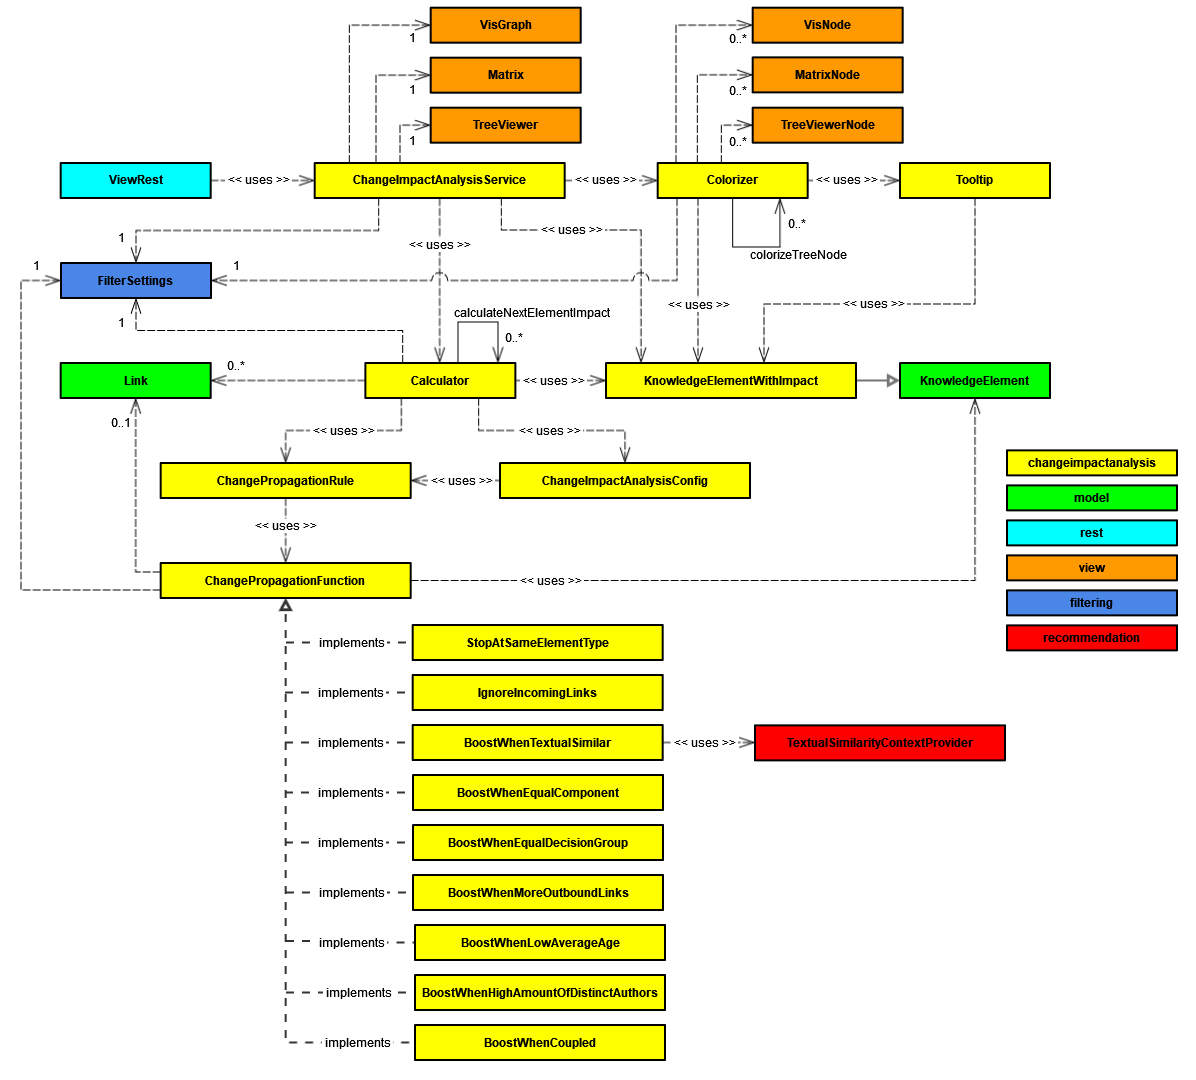
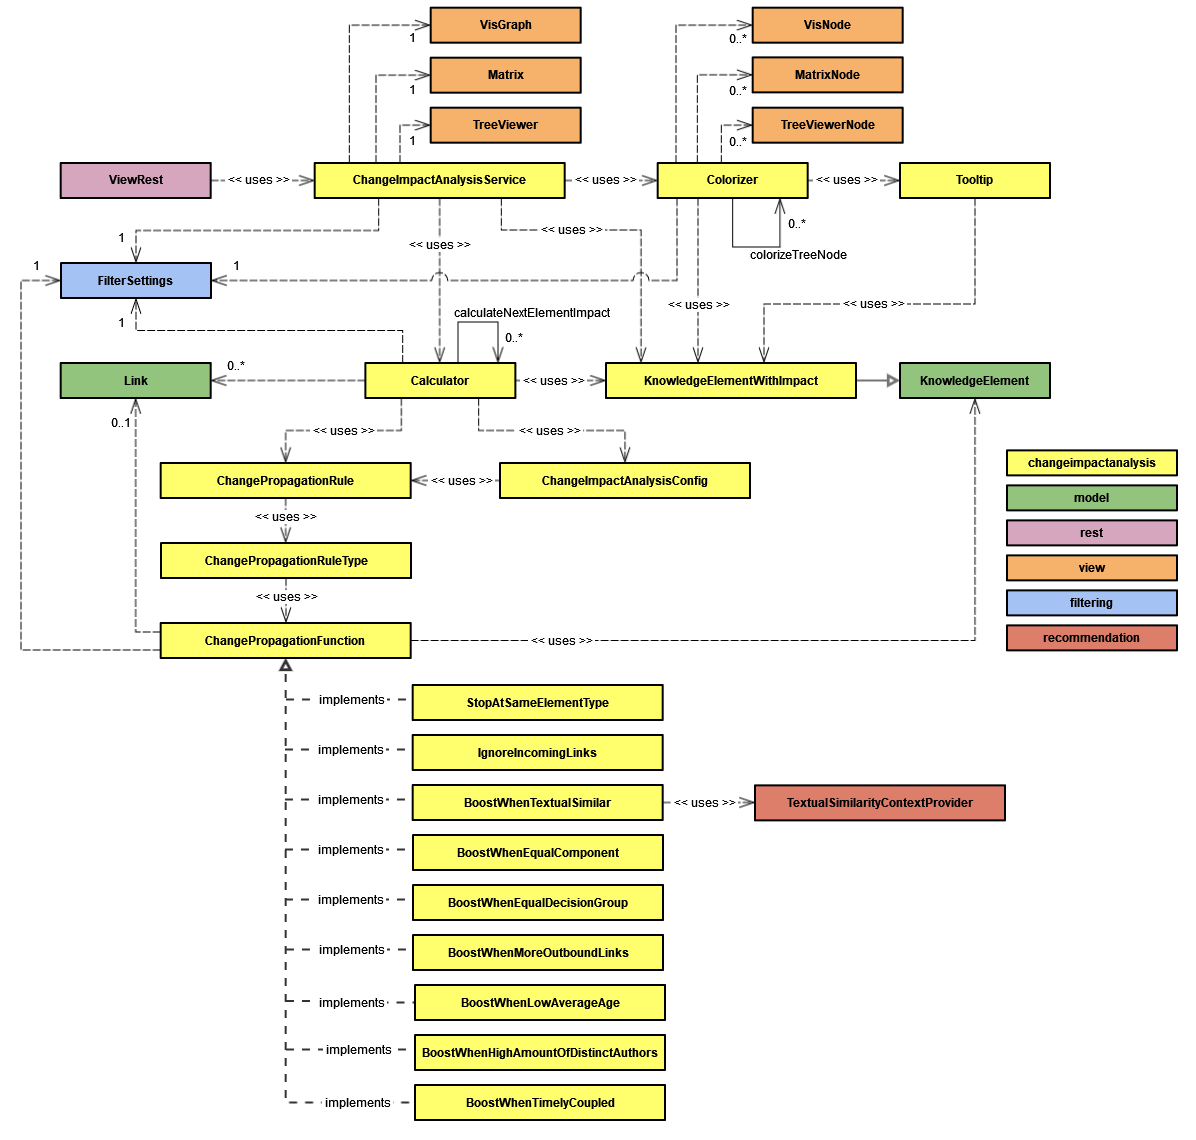
Fix Propagation Rule Application * Improve documentation

Changed region(s): [[0.0, 0.0, 0.99, 1.0]]

diff --git a/src/main/java/de/uhd/ifi/se/decision/management/jira/changeimpactanalysis/ChangePropagationRule.java b/src/main/java/de/uhd/ifi/se/decision/management/jira/changeimpactanalysis/ChangePropagationRule.java
@@ -34,8 +34,17 @@ public class ChangePropagationRule {
 	private float weightValue;
 
 	@JsonCreator
-	public ChangePropagationRule(@JsonProperty("name") String typeName) {
-		this(ChangePropagationRuleType.valueOf(typeName));
+	public ChangePropagationRule(String typeName) {
+		this(ChangePropagationRuleType.fromString(typeName));
+	}
+
+	@JsonCreator
+	public ChangePropagationRule(@JsonProperty("name") String typeName,
+		@JsonProperty("isActive") Boolean isActive,
+		@JsonProperty("weightValue") float weightValue) {
+			this.type = ChangePropagationRuleType.valueOf(typeName);
+			this.weightValue = weightValue;
+			this.isActive = isActive;
 	}
 
 	public ChangePropagationRule(ChangePropagationRuleType type) {

diff --git a/src/main/java/de/uhd/ifi/se/decision/management/jira/changeimpactanalysis/ChangePropagationRuleType.java b/src/main/java/de/uhd/ifi/se/decision/management/jira/changeimpactanalysis/ChangePropagationRuleType.java
@@ -93,4 +93,18 @@ public enum ChangePropagationRuleType {
 	public ChangePropagationFunction getFunction() {
 		return function;
 	}
+
+	/**
+	 * @param ruleType
+	 * 			description of a rule type.
+	 * @return {@link ChangePropagationRuleType} which matches the given description.
+	 */
+	public static ChangePropagationRuleType fromString(String ruleType) {
+        for (ChangePropagationRuleType type : ChangePropagationRuleType.values()) {
+            if (type.description.equalsIgnoreCase(ruleType)) {
+                return type;
+            }
+        }
+        return null;
+    }
 }

diff --git a/src/test/java/de/uhd/ifi/se/decision/management/jira/changeimpactanalysis/TestChangePropagationRuleType.java b/src/test/java/de/uhd/ifi/se/decision/management/jira/changeimpactanalysis/TestChangePropagationRuleType.java
@@ -14,4 +14,11 @@ public class TestChangePropagationRuleType extends TestSetUp {
 		assertEquals(ChangePropagationRuleType.STOP_AT_SAME_ELEMENT_TYPE,
 				ChangePropagationRuleType.valueOf(propagationRuleName));
 	}
+
+	@Test
+	public void testFromString() {
+		String propagationRuleDescription = "Stop at elements with the same type as the selected element";
+		assertEquals(ChangePropagationRuleType.STOP_AT_SAME_ELEMENT_TYPE,
+			ChangePropagationRuleType.fromString(propagationRuleDescription));
+	}
 }

diff --git a/doc/features/change-impact-analysis.md b/doc/features/change-impact-analysis.md
@@ -44,8 +44,12 @@ Developers can see an **explanation for the impact factor** of each node via a t
 *JSTree diagram with change impact hightlighting*
 
 ## Configuration
-The rationale manager can set default parameters for the change impact analysis.
-Besides, the developer can change the default values during the usage of change impact analysis.
+The rationale manager can set the default parameters for the change impact analysis, e.g. the decay value, threshold and default ruleset. In addition, they can set a weight value for each rule.
+Furthermore, the developer can change the default values during the usage of change impact analysis.
+
+![Change impact analysis configuration page](../screenshots/change_impact_analysis_configuration.png)
+
+*Change impact analysis configuration page*
 
 ## Design Details
 The following class diagram gives an overview of relevant backend classes for the change impact analysis.
@@ -57,7 +61,7 @@ The following class diagram gives an overview of relevant backend classes for th
 The Java code for the change impact analysis can be found here:
 
 - [Java code for the change impact analysis](../../src/main/java/de/uhd/ifi/se/decision/management/jira/changeimpactanalysis)
-- [REST-API for the change impact analysis](../../src/main/java/de/uhd/ifi/se/decision/management/jira/rest/ConfigRest.java)
+- [REST-API for the change impact analysis](../../src/main/java/de/uhd/ifi/se/decision/management/jira/rest/ChangeImpactAnalysisRest.java)
 
 The UI code for the change impact analysis can be found here:
 
